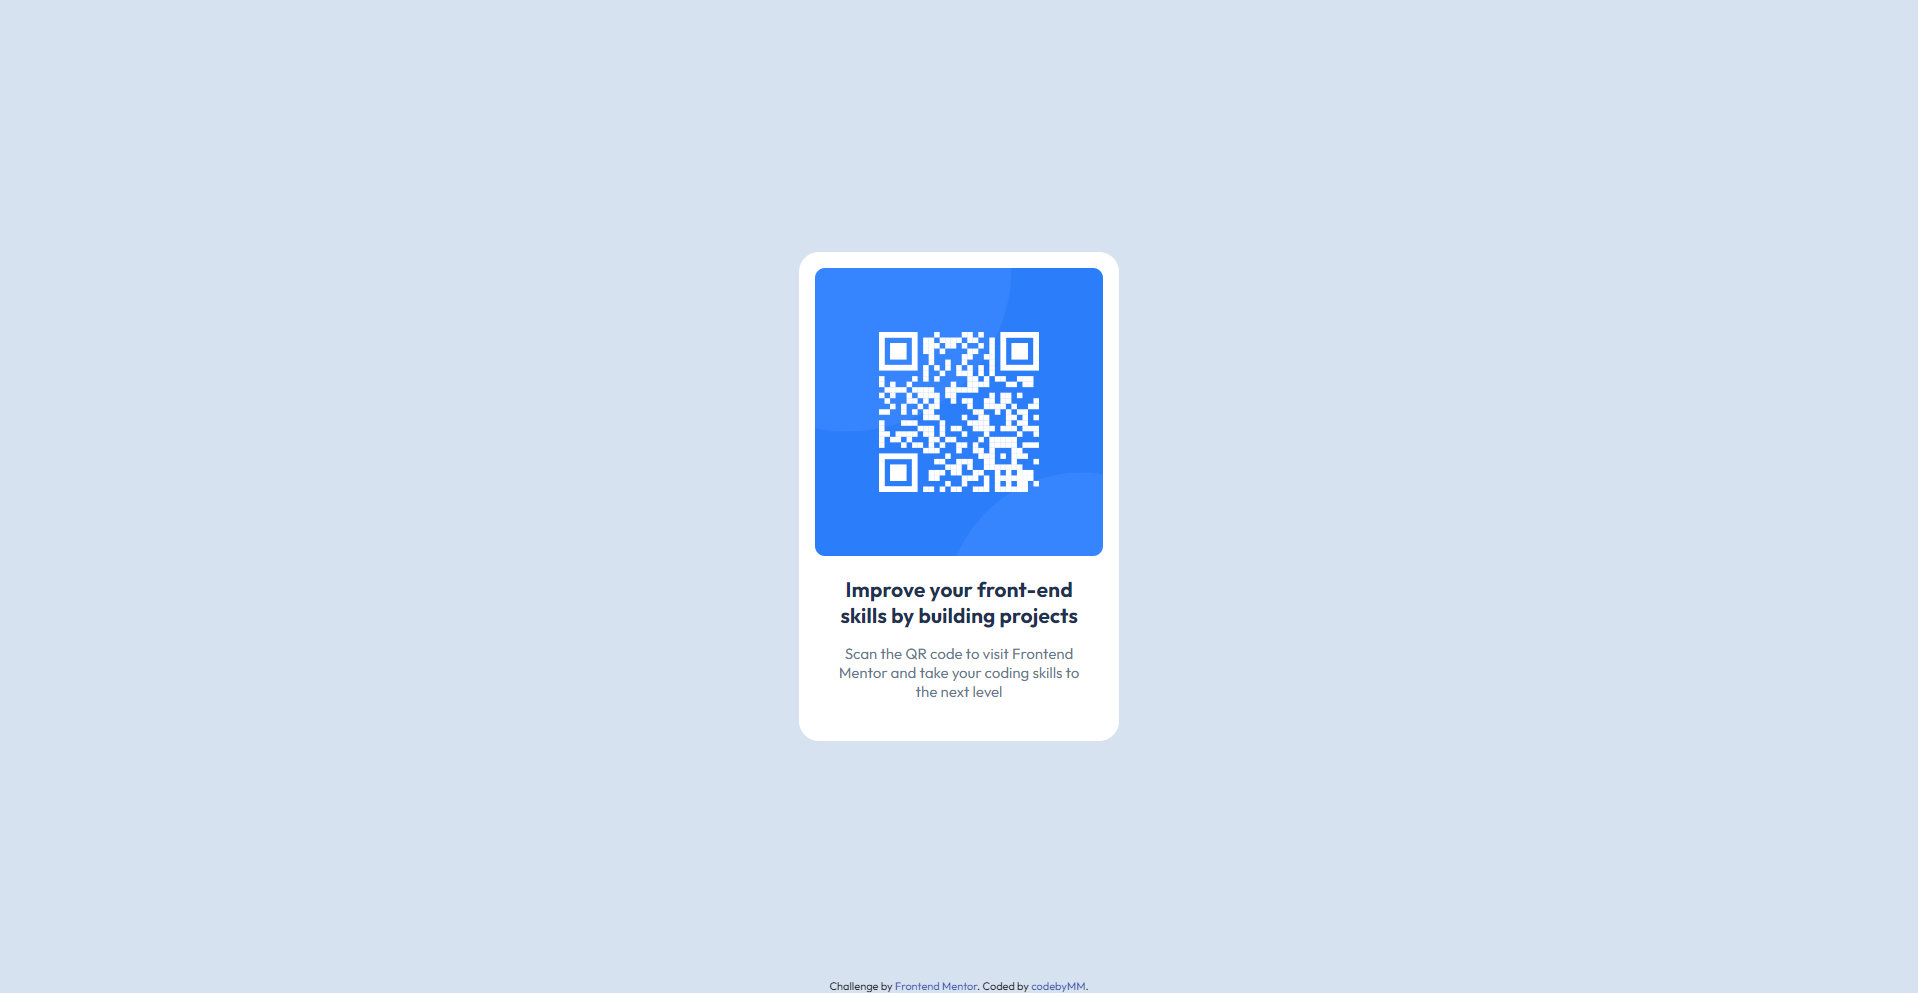
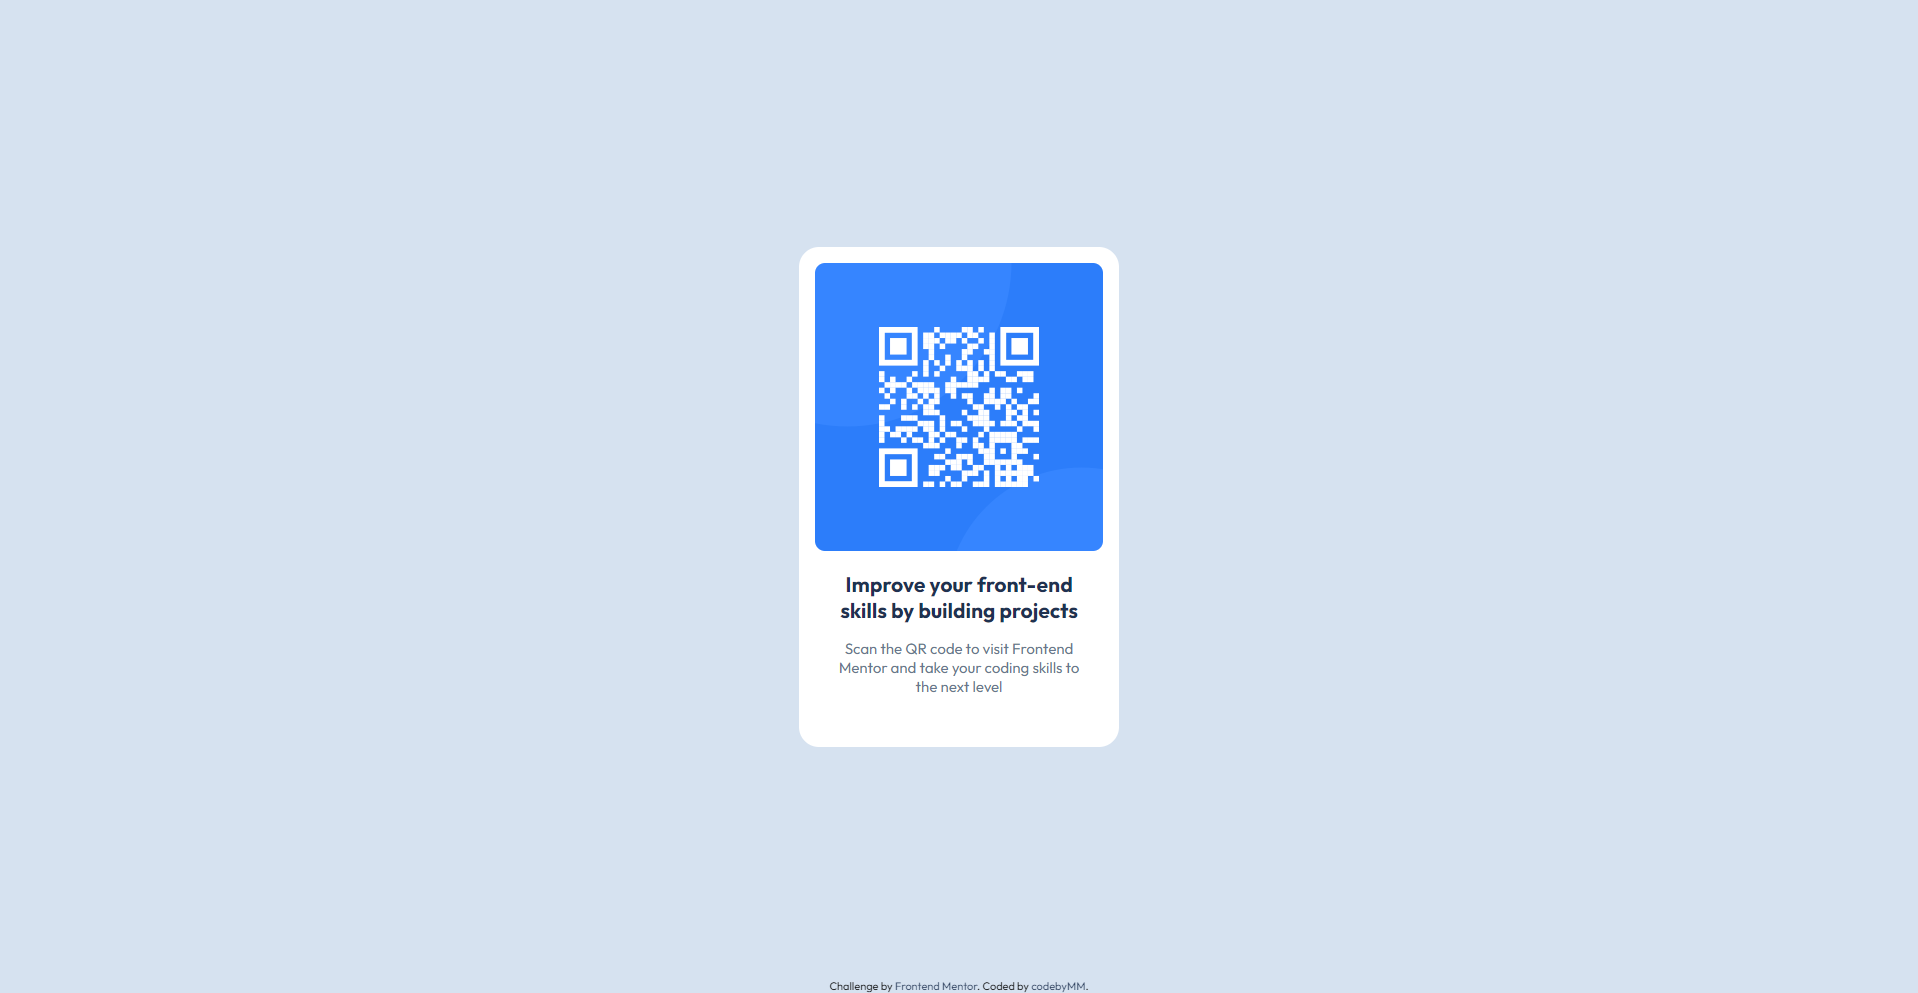
update height and readme

diff --git a/index.html b/index.html
@@ -15,12 +15,13 @@
   </style>
 </head>
 <body>
-  <div class="qr-container">
-    <img src="images/image-qr-code.png" alt="QR Code" class="qr-image">
-    <h3>Improve your front-end <br>skills by building projects</h3>
-    <p>Scan the QR code to visit Frontend Mentor and take your coding skills to the next level</p>
-  </div>
-
+  <main>
+    <div class="qr-container">
+      <img src="images/image-qr-code.png" alt="QR Code" class="qr-image">
+      <h1>Improve your front-end <br>skills by building projects</h1>
+      <p>Scan the QR code to visit Frontend Mentor and take your coding skills to the next level</p>
+    </div>
+  </main>
   <footer>
     <div class="attribution">
       Challenge by <a href="https://www.frontendmentor.io?ref=challenge" target="_blank">Frontend Mentor</a>. 

diff --git a/styles.css b/styles.css
@@ -32,7 +32,7 @@ footer {
     text-align: center; 
 }
 .attribution a { 
-    color: hsl(228, 45%, 44%); 
+    color: var(--slate900); 
 }
 /*--------------------- BODY ---------------------*/
 body {
@@ -52,8 +52,9 @@ body {
     padding: 1rem 1rem 2.5rem;
     text-align: center;
     border-radius: 20px;
+    height:500px;
 }
-.qr-container h3{
+.qr-container h1{
     font-size: 1.4em;
     color: var(--slate900);
     max-width: 256px;
@@ -64,7 +65,7 @@ body {
     color: var(--slate500);
     font-weight: var(--fw-400);
 }
-.qr-container h3,
+.qr-container h1,
 .qr-container p {
     max-width: 256px;
     width: 100%;

diff --git a/README.md b/README.md
@@ -13,13 +13,13 @@ This is a solution to the [QR code component challenge on Frontend Mentor](https
 
 ### Screenshot
 
-[Desktop Version (1440px)](images/screenshots.png)
-[Mobile Version (375px)](images/screenshotsMobile.png)
+![Desktop Version (1440px)](images/screenshots.png)
+![Mobile Version (375px)](images/screenshotsMobile.png)
 
 ### Links
 
 - Solution URL: [Add solution URL here](https://your-solution-url.com)
-- Live Site URL: [Add live site URL here](https://your-live-site-url.com)
+- Live Site URL: [https://codebymm.github.io/fM_qrCode/](https://codebymm.github.io/fM_qrCode/)
 
 ## My process
 
